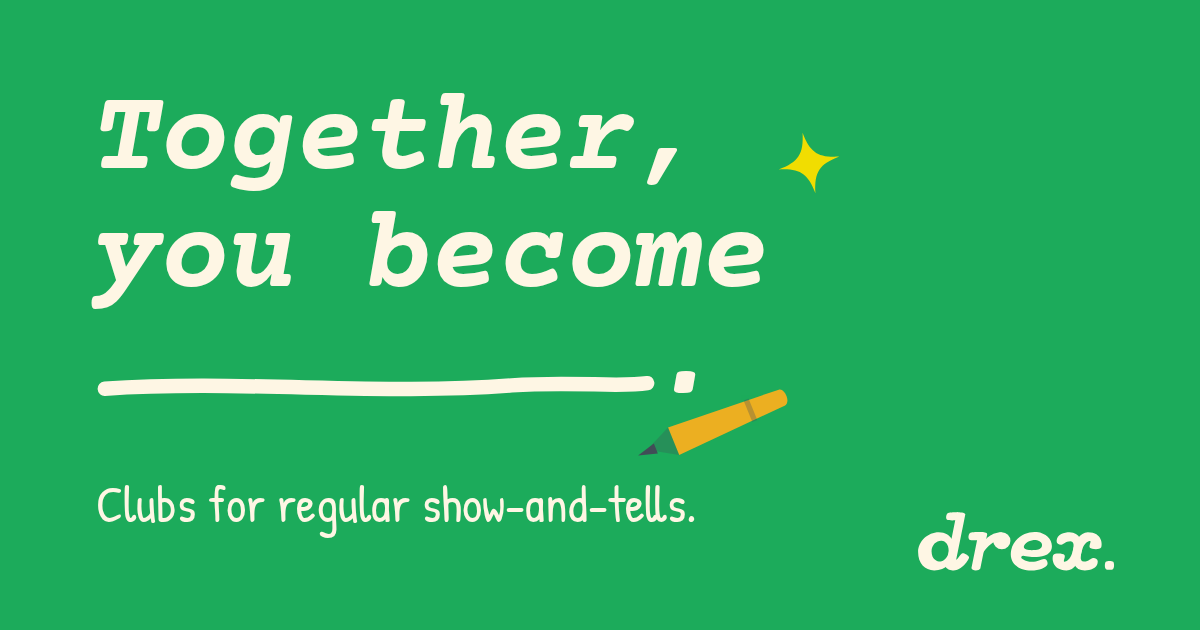
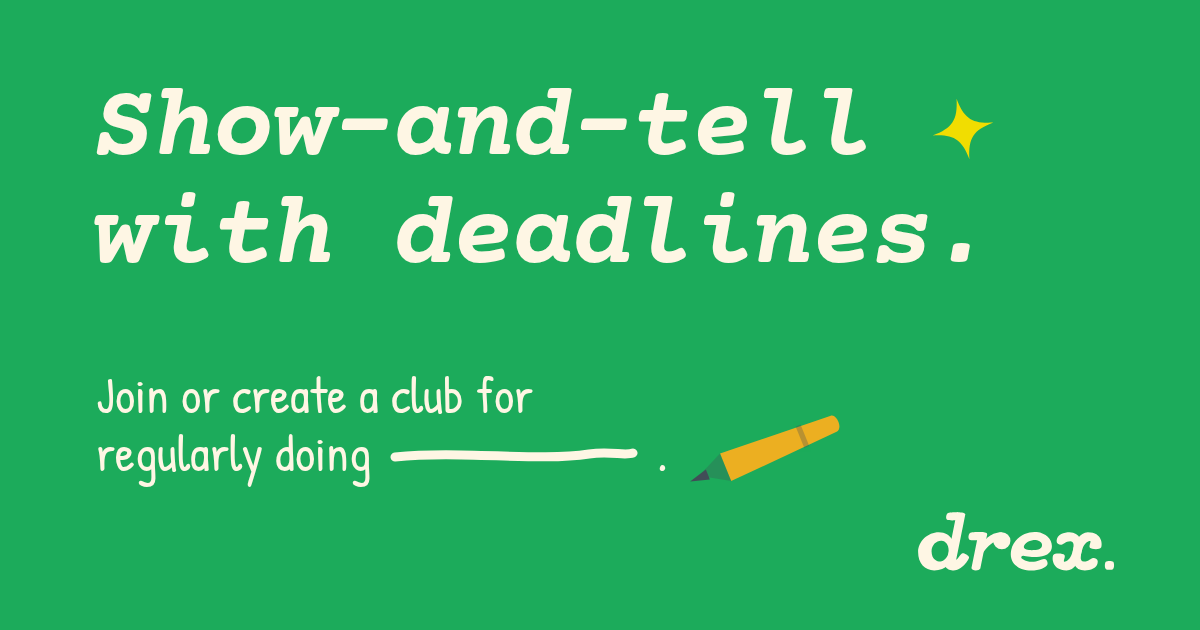
The OG card follows the fold down
assets/og.png still carried "Together, you become ___.", a headline the
page stopped having. Re-rendered from _shotgun-og/r6-A.html, which is
the card's real source: headline is the H1, kicker is the sub, and the
blank stays drawn as a rule with the stop and the pencil after it.

The kicker is no longer the tagline, which is the one rule that file's
header used to state. It could not survive: "Clubs for regular
show-and-tells." under "Show-and-tell with deadlines." puts the same
noun on the card twice in eleven words. The tagline still holds four
slots, and og:title renders beside the image anyway.

104px, not 116: "with deadlines." is 9em of Courier Prime, which is
1044px at the old size against a 1200px card. og:image:alt rewritten to
describe the card that is now actually there.

diff --git a/_shotgun-og/r6-A.html b/_shotgun-og/r6-A.html
@@ -9,8 +9,20 @@
        browse goto file://$PWD/_shotgun-og/r6-A.html
        browse wait --networkidle
        browse screenshot --selector ".card" assets/og.png
-     The kicker is THE TAGLINE and has to match index.html's <title>, the og:title, the
-     footer .tagline, and the og:image:alt that describes this card. -->
+
+     RE-CUT 2026-08-08, tracking the fold. The page's H1 became "Show-and-tell with
+     deadlines." and the blank moved down to the sub, so the card follows it line for line:
+     the headline is the H1, and the kicker is the sub WITH ITS BLANK still drawn as a rule
+     and a full stop. The card's whole device has always been that blank; demoting it with
+     the sentence it ends is cheaper than inventing a second one.
+     THE KICKER IS NO LONGER THE TAGLINE, and that is the one rule this file used to state
+     in its own header. It could not survive the rewrite: the tagline is "Clubs for regular
+     show-and-tells." and the headline above it now says "Show-and-tell with deadlines.",
+     so keeping both put the same noun on the card twice in eleven words. The tagline is
+     still in four slots (title, og:title, twitter:title, the footer signature) and og:title
+     renders directly beside this image in every preview that shows one, so the card does
+     not have to say it a fifth time. What the kicker has to match now is index.html's SUB.
+     If either moves, move the other. -->
 <link rel="preconnect" href="https://fonts.googleapis.com">
 <link rel="preconnect" href="https://fonts.gstatic.com" crossorigin>
 <link rel="stylesheet" href="https://fonts.googleapis.com/css2?family=Courier+Prime:ital,wght@0,400;0,700;1,400;1,700&family=Patrick+Hand&display=swap">
@@ -29,16 +41,28 @@ letter-spacing:-.02em}
 text-transform:uppercase}
 
 .card{background:var(--grass)}
-.h{position:absolute;left:92px;top:84px;color:var(--oats);font-size:116px;
-line-height:1.02}
-.stop{position:absolute;left:652px;top:302px;color:var(--oats);font-size:116px}
-.kick{position:absolute;left:96px;top:470px;color:var(--oats);font-size:50px}
+/* 104px, not the 116px the old two-word headline was set at: this sentence's longer line
+   ("with deadlines.", 15 characters) is 15 x .6em of Courier Prime = 9em, which is 1044px at
+   116 and would leave 64px of card to the right of it. At 104 it is 936px and the right
+   margin is a proper 172. Monospace, so this is exact and re-derivable: the ceiling is
+   (1200 - left - margin) / 9. */
+.h{position:absolute;left:92px;top:78px;color:var(--oats);font-size:104px;line-height:1.04}
+/* the sub, carrying the blank. Flex on the baseline row so the rule and the stop stay welded
+   to the end of "doing" no matter what the hand face measures — nothing here is hard-placed
+   by eye except the row's own top. */
+.kick{position:absolute;left:96px;color:var(--oats);font-size:50px;line-height:1.16}
+.kick.k1{top:366px}
+.kick.k2{top:424px;display:flex;align-items:flex-end;gap:18px}
+.kick .blank{display:block;width:250px;height:26px;margin-bottom:14px}
 </style></head><body><div class="card">
-  <div class="h pitch">Together,<br>you become</div>
-  <svg class="dd" viewBox="0 0 520 26" preserveAspectRatio="none" style="left:96px;top:372px;width:560px;height:29px"><path d="M8 15 C130 7 268 21 386 12 C444 8 484 14 512 10" fill="none" stroke="var(--oats)" stroke-width="13" stroke-linecap="round"/></svg>
-  <div class="stop pitch">.</div>
-  <svg class="dd" viewBox="0 0 160 44" style="left:628px;top:402px;width:170px;transform:rotate(-22deg)"><path d="M40 8 L150 14 C156 15 156 29 150 30 L40 36 Z" fill="var(--schoolbus)"/><path d="M40 8 L14 20 L40 36 Z" fill="#414D57" opacity=".28"/><path d="M22 17 L4 22 L22 27 Z" fill="#414D57"/><path d="M118 11 L118 33" stroke="#414D57" stroke-width="5" opacity=".3"/></svg>
-  <svg class="dd" viewBox="0 0 100 100" style="left:776px;top:130px;width:66px;height:66px;transform:rotate(-12deg)"><path d="M50 3 C55 35 65 45 97 50 C65 55 55 65 50 97 C45 65 35 55 3 50 C35 45 45 35 50 3Z" fill="var(--happy)"/></svg>
-  <div class="kick birdie">Clubs for regular show-and-tells.</div>
-  <div class="lg" style="left:868.9px;top:473.8px;width:294.2px"><svg viewBox="0 0 14696 6730" fill="var(--oats)" role="img" aria-label="drex" style="display:block;width:100%;height:auto"><path d="M5478.999,2905.779c0,0 421.063,-37.36 425.9,108.343l-343.709,1707.337c-61.242,136.313 -436.173,134.324 -442.946,-22.416l360.754,-1793.265Z"/><path d="M5041.89,2951.676c63.511,-60.841 526.771,-49.633 526.771,-49.633l-102.739,405.414c0,0 -396.752,19.539 -449.056,-24.346c-70.672,-59.297 -57.436,-252.443 25.024,-331.436Z"/><path d="M3924.681,1958.721c63.511,-60.841 530.662,-50.446 530.662,-50.446l-106.63,406.227c0,0 -396.752,19.539 -449.056,-24.346c-70.672,-59.297 -57.436,-252.443 25.024,-331.436Z"/><path d="M5726.866,3417.607c0,0 256.489,-511.828 914.019,-511.828l-313.821,549.187c0,0 -52.304,-37.36 -119.551,-37.36c-40.411,0 -354.324,251.272 -556.659,579.075l76.013,-579.075Z"/><ellipse cx="6634.347" cy="3332.931" rx="430.57" ry="427.151"/><path d="M4268.545,3833.937c-54.051,587.803 -422.164,984.658 -1012.447,984.658c-466.996,0 -803.233,-354.917 -803.233,-919.048c0,-545.451 486.888,-993.767 1032.339,-993.767c668.793,0 813.229,603.128 783.342,928.157Zm-643.455,-498.703c-234.497,-17.38 -499.751,191.996 -499.751,524.336c0,438.408 306.192,521.14 448.316,514.446c142.124,-6.694 404.43,-206.606 404.43,-554.612c0,-284.788 -150.331,-469.149 -352.995,-484.17Z"/><path d="M4388.096,1908.276c0,0 411.204,-11.208 424.724,108.343c0,19.142 -451.623,2260.261 -451.623,2260.261c15.69,59.775 224.905,-302.557 315.685,-313.821c110.397,-13.699 320.176,120.344 320.176,210.008c-0,122.494 -381.069,648.499 -765.873,648.499c-140.399,0 -328.765,-47.802 -392.277,-174.825l549.187,-2738.465Z"/><path d="M8385.582,2902.043c497.354,57.086 817.745,422.164 739.722,818.177c-90.045,457.032 -844.694,445.003 -1082.497,417.708c-230.119,-26.413 -368.235,-100.848 -422.572,-20.593c0,0 -107.744,106.625 251.184,223.032c419.614,136.089 691.752,-83.334 866.656,-96.072c140.311,-10.219 217.565,170.071 168.209,286.302c-66.995,157.772 -494.323,338.135 -1028.793,276.789c-285.793,-32.803 -922.08,-269.802 -773.345,-1004.975c130.759,-646.322 784.083,-957.454 1281.437,-900.368Zm-212.016,404.392c-264.608,50.886 -442.712,200.115 -438.042,342.082c4.67,141.967 311.61,175.439 541.715,149.439c165.317,-18.68 362.389,-47.848 366.125,-257.062c3.213,-179.919 -275.528,-271.818 -469.798,-234.459Z"/><path d="M9206.516,4052.426c-70.533,107.48 -90.728,764.251 662.245,766.169c771.79,1.966 1183.203,-1911.019 149.439,-1912.816c-257.116,-0.447 -637.291,99.928 -646.668,437.503c-3.838,138.152 129.653,198.923 237.929,188.041c127.279,-12.792 188.555,-176.528 452.832,-176.528c264.278,0 131.209,448.7 79.402,619.471c-101.286,333.868 -336.519,428.184 -390.245,405.158c-60.791,-26.053 81.561,-246.308 11.513,-333.868c-61.401,-76.751 -475.858,-115.932 -556.447,6.87Z"/><path d="M11593.807,3675.684c70.533,-107.48 91.02,-767.987 -661.952,-769.905c-771.79,-1.966 -1183.496,1911.019 -149.731,1912.816c257.116,0.447 637.291,-96.192 646.668,-433.767c3.838,-138.152 -129.653,-198.923 -237.929,-188.041c-127.279,12.792 -188.555,176.528 -452.832,176.528c-264.278,0 -131.209,-448.7 -79.402,-619.471c101.286,-333.868 336.519,-428.184 390.245,-405.158c60.791,26.053 -81.561,246.308 -11.513,333.868c61.401,76.751 475.858,115.932 556.447,-6.87Z"/><path d="M11830.971,4385.014c61.784,-59.74 306.841,-59.74 367.586,0c60.745,59.74 58.668,298.701 -3.115,358.441c-61.784,59.74 -306.841,59.74 -367.586,0c-60.745,-59.74 -58.668,-298.701 3.115,-358.441Z"/></svg></div>
+  <div class="h pitch">Show-and-tell<br>with deadlines.</div>
+  <!-- the star sits off the end of the headline's first line, clear of both lines' type -->
+  <svg class="dd" viewBox="0 0 100 100" style="left:930px;top:96px;width:66px;height:66px;transform:rotate(-12deg)"><path d="M50 3 C55 35 65 45 97 50 C65 55 55 65 50 97 C45 65 35 55 3 50 C35 45 45 35 50 3Z" fill="var(--happy)"/></svg>
+  <div class="kick birdie k1">Join or create a club for</div>
+  <div class="kick birdie k2"><span>regularly doing</span><svg class="blank" viewBox="0 0 250 26" preserveAspectRatio="none"><path d="M6 15 C74 8 148 20 200 12 C222 9 236 14 244 11" fill="none" stroke="var(--oats)" stroke-width="9" stroke-linecap="round"/></svg><span>.</span></div>
+  <!-- the pencil rests just past the stop, pointing back at the blank it just wrote — measured,
+       not eyeballed: the stop's right edge lands at x=668 and the wordmark starts at x=869, so
+       170px of pencil at 680 clears both ends of the gap even with the -22deg rotation. -->
+  <svg class="dd" viewBox="0 0 160 44" style="left:680px;top:428px;width:170px;transform:rotate(-22deg)"><path d="M40 8 L150 14 C156 15 156 29 150 30 L40 36 Z" fill="var(--schoolbus)"/><path d="M40 8 L14 20 L40 36 Z" fill="#414D57" opacity=".28"/><path d="M22 17 L4 22 L22 27 Z" fill="#414D57"/><path d="M118 11 L118 33" stroke="#414D57" stroke-width="5" opacity=".3"/></svg>
+<div class="lg" style="left:868.9px;top:473.8px;width:294.2px"><svg viewBox="0 0 14696 6730" fill="var(--oats)" role="img" aria-label="drex" style="display:block;width:100%;height:auto"><path d="M5478.999,2905.779c0,0 421.063,-37.36 425.9,108.343l-343.709,1707.337c-61.242,136.313 -436.173,134.324 -442.946,-22.416l360.754,-1793.265Z"/><path d="M5041.89,2951.676c63.511,-60.841 526.771,-49.633 526.771,-49.633l-102.739,405.414c0,0 -396.752,19.539 -449.056,-24.346c-70.672,-59.297 -57.436,-252.443 25.024,-331.436Z"/><path d="M3924.681,1958.721c63.511,-60.841 530.662,-50.446 530.662,-50.446l-106.63,406.227c0,0 -396.752,19.539 -449.056,-24.346c-70.672,-59.297 -57.436,-252.443 25.024,-331.436Z"/><path d="M5726.866,3417.607c0,0 256.489,-511.828 914.019,-511.828l-313.821,549.187c0,0 -52.304,-37.36 -119.551,-37.36c-40.411,0 -354.324,251.272 -556.659,579.075l76.013,-579.075Z"/><ellipse cx="6634.347" cy="3332.931" rx="430.57" ry="427.151"/><path d="M4268.545,3833.937c-54.051,587.803 -422.164,984.658 -1012.447,984.658c-466.996,0 -803.233,-354.917 -803.233,-919.048c0,-545.451 486.888,-993.767 1032.339,-993.767c668.793,0 813.229,603.128 783.342,928.157Zm-643.455,-498.703c-234.497,-17.38 -499.751,191.996 -499.751,524.336c0,438.408 306.192,521.14 448.316,514.446c142.124,-6.694 404.43,-206.606 404.43,-554.612c0,-284.788 -150.331,-469.149 -352.995,-484.17Z"/><path d="M4388.096,1908.276c0,0 411.204,-11.208 424.724,108.343c0,19.142 -451.623,2260.261 -451.623,2260.261c15.69,59.775 224.905,-302.557 315.685,-313.821c110.397,-13.699 320.176,120.344 320.176,210.008c-0,122.494 -381.069,648.499 -765.873,648.499c-140.399,0 -328.765,-47.802 -392.277,-174.825l549.187,-2738.465Z"/><path d="M8385.582,2902.043c497.354,57.086 817.745,422.164 739.722,818.177c-90.045,457.032 -844.694,445.003 -1082.497,417.708c-230.119,-26.413 -368.235,-100.848 -422.572,-20.593c0,0 -107.744,106.625 251.184,223.032c419.614,136.089 691.752,-83.334 866.656,-96.072c140.311,-10.219 217.565,170.071 168.209,286.302c-66.995,157.772 -494.323,338.135 -1028.793,276.789c-285.793,-32.803 -922.08,-269.802 -773.345,-1004.975c130.759,-646.322 784.083,-957.454 1281.437,-900.368Zm-212.016,404.392c-264.608,50.886 -442.712,200.115 -438.042,342.082c4.67,141.967 311.61,175.439 541.715,149.439c165.317,-18.68 362.389,-47.848 366.125,-257.062c3.213,-179.919 -275.528,-271.818 -469.798,-234.459Z"/><path d="M9206.516,4052.426c-70.533,107.48 -90.728,764.251 662.245,766.169c771.79,1.966 1183.203,-1911.019 149.439,-1912.816c-257.116,-0.447 -637.291,99.928 -646.668,437.503c-3.838,138.152 129.653,198.923 237.929,188.041c127.279,-12.792 188.555,-176.528 452.832,-176.528c264.278,0 131.209,448.7 79.402,619.471c-101.286,333.868 -336.519,428.184 -390.245,405.158c-60.791,-26.053 81.561,-246.308 11.513,-333.868c-61.401,-76.751 -475.858,-115.932 -556.447,6.87Z"/><path d="M11593.807,3675.684c70.533,-107.48 91.02,-767.987 -661.952,-769.905c-771.79,-1.966 -1183.496,1911.019 -149.731,1912.816c257.116,0.447 637.291,-96.192 646.668,-433.767c3.838,-138.152 -129.653,-198.923 -237.929,-188.041c-127.279,12.792 -188.555,176.528 -452.832,176.528c-264.278,0 -131.209,-448.7 -79.402,-619.471c101.286,-333.868 336.519,-428.184 390.245,-405.158c60.791,26.053 -81.561,246.308 -11.513,333.868c61.401,76.751 475.858,115.932 556.447,-6.87Z"/><path d="M11830.971,4385.014c61.784,-59.74 306.841,-59.74 367.586,0c60.745,59.74 58.668,298.701 -3.115,358.441c-61.784,59.74 -306.841,59.74 -367.586,0c-60.745,-59.74 -58.668,-298.701 3.115,-358.441Z"/></svg></div>
 </div></body></html>

diff --git a/index.html b/index.html
@@ -62,14 +62,14 @@
 <meta property="og:image" content="https://drex.style/assets/og.png" />
 <meta property="og:image:width" content="1200" />
 <meta property="og:image:height" content="630" />
-<!-- The alt describes the card that is actually there — assets/og.png, which is a rendering
-     of og-card.html and still carries the OLD headline ("Together, you become ___."). The
-     page's H1 changed on 2026-08-08 and the image did NOT: this alt stays true to the pixels
-     until the card is re-rendered, at which point both this line and og-card.html's headline
-     have to move to "Show-and-tell with deadlines." It has to name the BLANK as a blank: a
-     reader who cannot see the image gets no sentence at all otherwise, since the card's
-     headline deliberately stops mid-thought. -->
-<meta property="og:image:alt" content="drex. — Together, you become ___. Clubs for regular show-and-tells. Oats-cream type on a grass-green card: the last word of the headline is an empty hand-drawn blank with a full stop after it, and a yellow pencil rests just past the end of the line." />
+<!-- The alt describes the card that is actually there: assets/og.png, rendered from
+     _shotgun-og/r6-A.html (the re-render recipe is in that file's header). Both moved with
+     the fold on 2026-08-08 — headline, sub, and the blank that came down with it — so the
+     card, this alt and index.html's zone 1 are three copies of one thing. If any of them
+     changes, all three do.
+     It has to name the BLANK as a blank: a reader who cannot see the image gets no sentence
+     at all otherwise, since the card's subtitle deliberately stops mid-thought. -->
+<meta property="og:image:alt" content="drex. — Show-and-tell with deadlines. Join or create a club for regularly doing ___. Oats-cream type on a grass-green card: the last word of the subtitle is an empty hand-drawn blank with a full stop after it, and a yellow pencil rests just past the end of the line." />
 <meta name="twitter:card" content="summary_large_image" />
 <meta name="twitter:title" content="drex. — Clubs for regular show-and-tells." />
 <meta name="twitter:description" content="Join or create a small club for regular show-and-tells with deadlines: set a challenge, help each other finish, put your work in a zine. Repeat = portfolio." />
